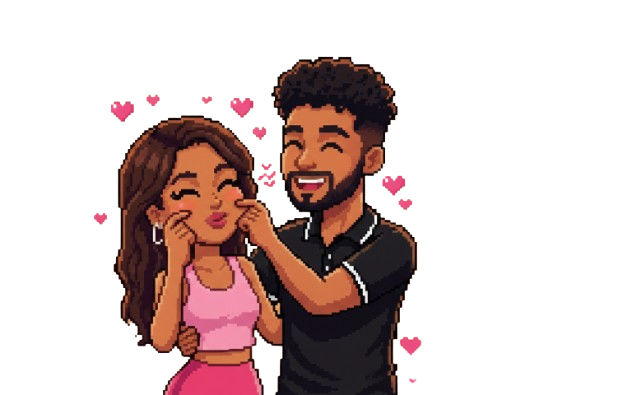
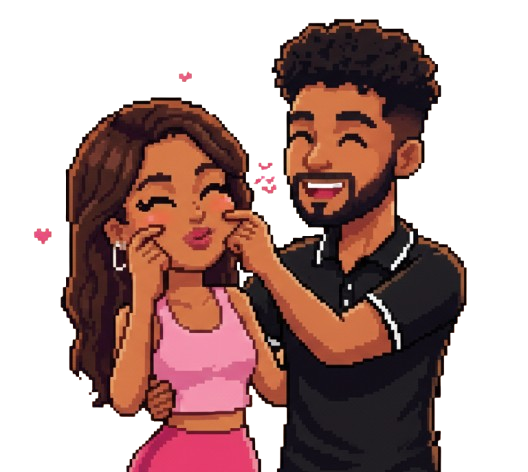
added 6th question - image fix

diff --git a/src/App.css b/src/App.css
@@ -329,12 +329,11 @@ body {
 }
 
 .kiss-image {
-  width: 50%;
-  margin: auto 0 auto;
-  margin-left: 130px;
+  width: 100%;
+  max-width: 150px;
+  margin: 20px auto;
   display: block;
   image-rendering: pixelated;
-  transform: translateX(-15px);
 }
 
 .question-counter {
